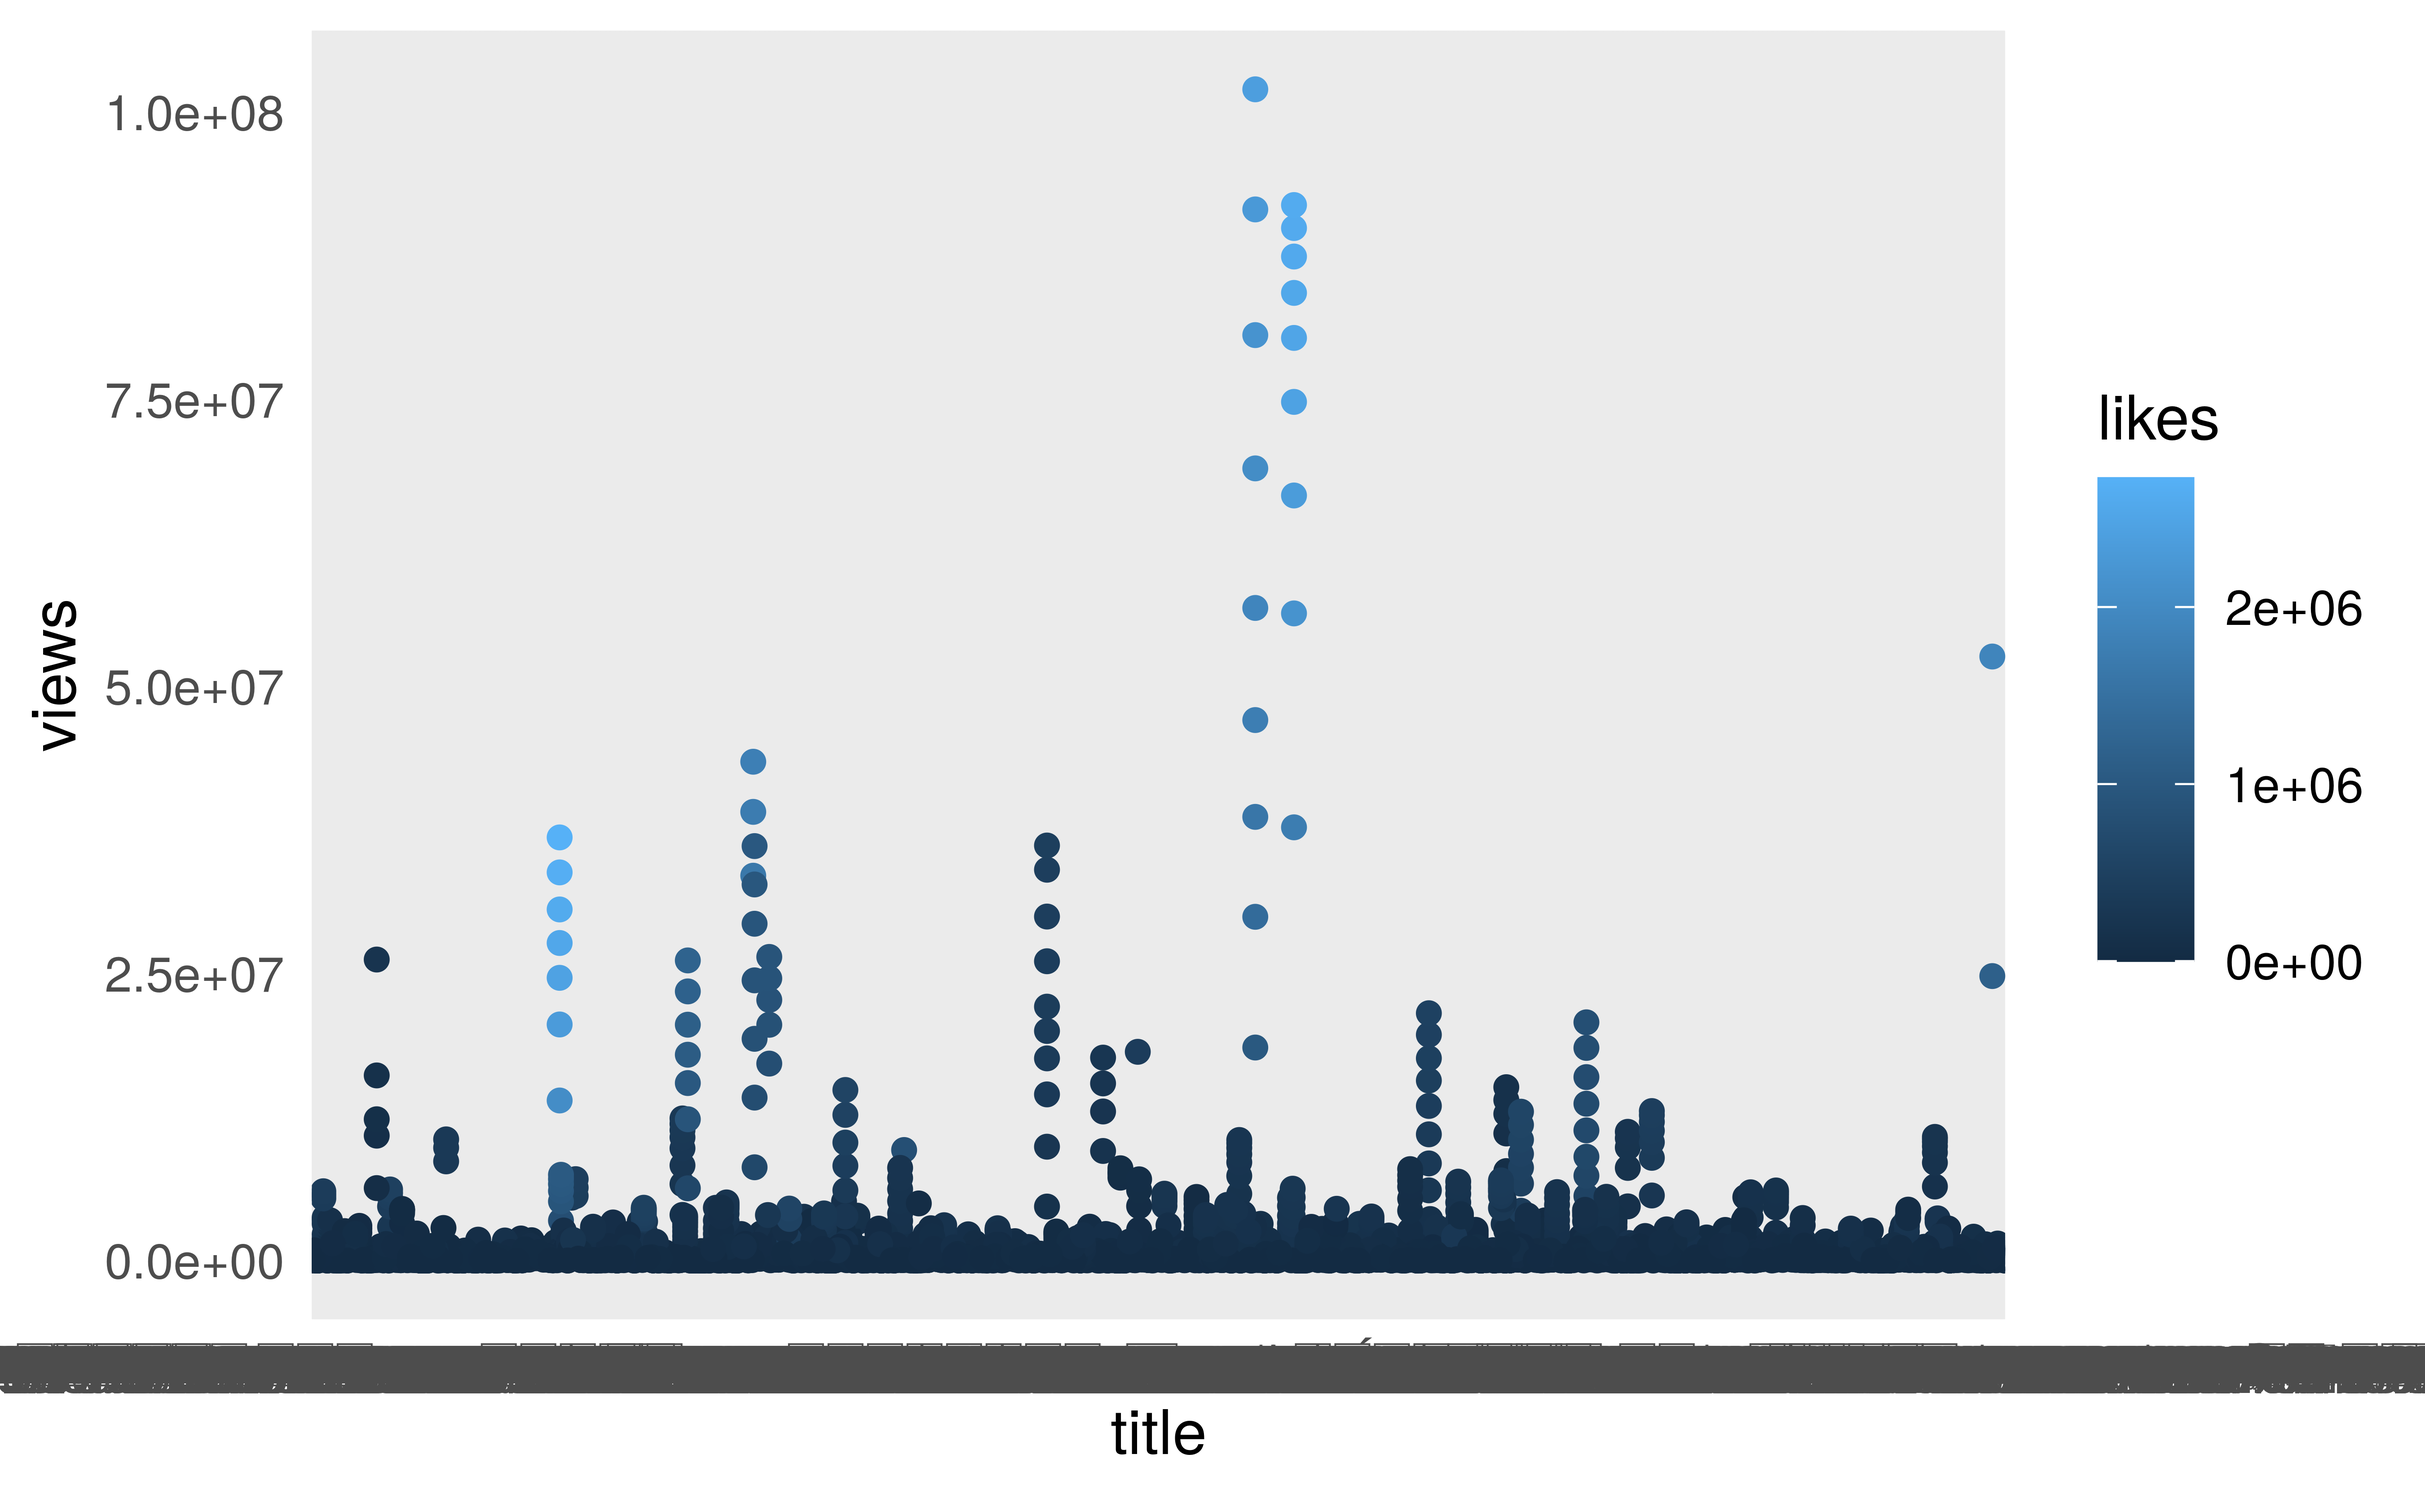
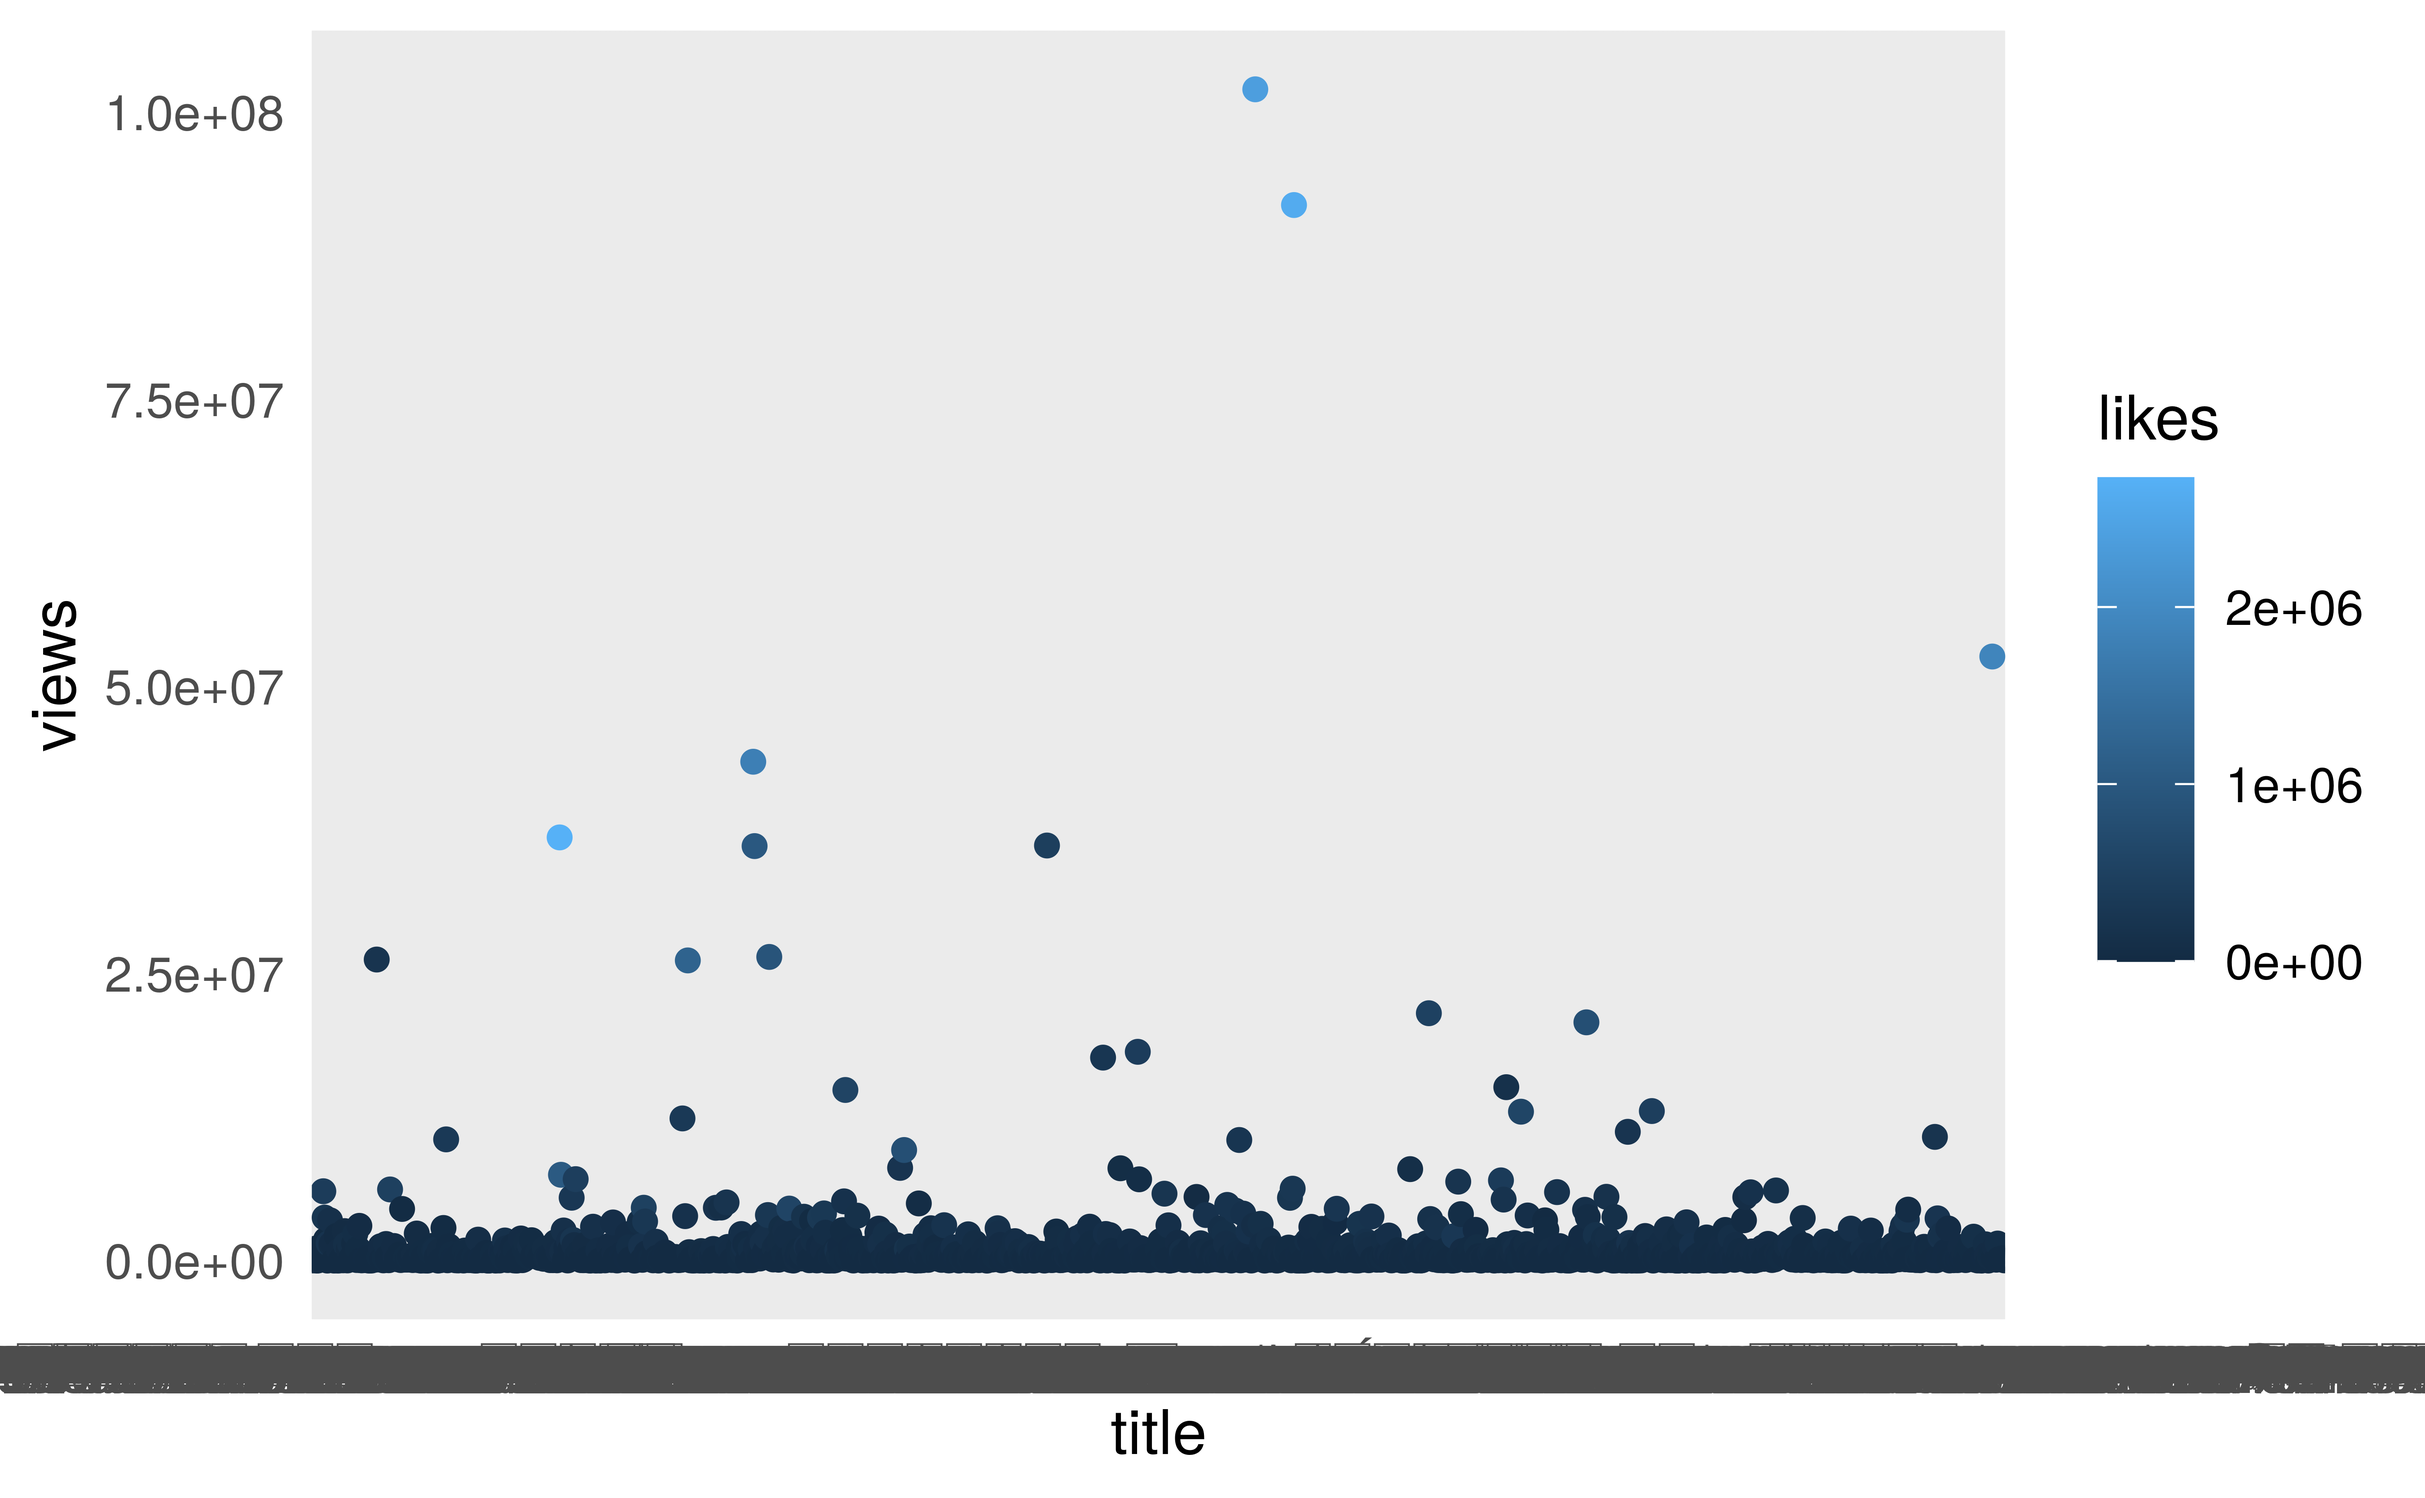
Pardon Me

diff --git a/presentation/presentation.html b/presentation/presentation.html
@@ -1,7 +1,7 @@
 <!DOCTYPE html>
 <html lang="" xml:lang="">
   <head>
-    <title>What is the most popular video on Youtube?.</title>
+    <title>What is the most popular video on Youtube?</title>
     <meta charset="utf-8" />
     <meta name="author" content="Infinite   Alicia, Lucas, Lucia" />
     <meta name="date" content="2020-11-28" />
@@ -12,7 +12,7 @@
     <textarea id="source">
 class: center, middle, inverse, title-slide
 
-# What is the most popular video on Youtube?.
+# What is the most popular video on Youtube?
 ## Infinite possibilites
 ### Infinite <br> Alicia, Lucas, Lucia
 ### University of Edinburgh
@@ -84,6 +84,24 @@ library(here)
 ```r
 library(dplyr)
 library(stringr)
+library(data.table)
+```
+
+```
+## 
+## Attaching package: 'data.table'
+```
+
+```
+## The following objects are masked from 'package:dplyr':
+## 
+##     between, first, last
+```
+
+```
+## The following object is masked from 'package:purrr':
+## 
+##     transpose
 ```
 
 
@@ -154,6 +172,8 @@ or text in two columns `\(^*\)`
 
 
 
+
+
 ---
 
 # Plots
@@ -170,16 +190,113 @@ or text in two columns `\(^*\)`
 
 
 
-```r
-ggplot(USvideos, mapping = aes(x = publish_time, y = trending_date)) +
-  geom_point()
 ```
-
+## # A tibble: 1,268 x 2
+## # Groups:   title, views [1,268]
+##     title                                                                  views
+##     &lt;chr&gt;                                                                  &lt;dbl&gt;
+##   1 Luis Fonsi, Demi Lovato - Échame La Culpa                             1.02e8
+##   2 Marvel Studios' Avengers: Infinity War Official Trailer               9.19e7
+##   3 YouTube Rewind: The Shape of  | #YouTubeRewind                        5.26e7
+##   4 Ed Sheeran - Perfect (Official Music Video)                           4.34e7
+##   5 BTS (방탄소년단) 'MIC Drop (Steve Aoki Remix)' Official MV            3.69e7
+##   6 Incredibles 2 Official Teaser Trailer                                 3.62e7
+##   7 Ed Sheeran - Perfect Duet (with Beyoncé) [Official Audio]             3.61e7
+##   8 Eminem - Walk On Water (Audio) ft. Beyoncé                            2.64e7
+##   9 42 HOLY GRAIL HACKS THAT WILL SAVE YOU A FORTUNE                      2.62e7
+##  10 Demi Lovato - Tell Me You Love Me                                     2.61e7
+##  11 P!nk - Beautiful Trauma (Official Video)                              2.15e7
+##  12 Selena Gomez, Marshmello - Wolves                                     2.08e7
+##  13 Jurassic World: Fallen Kingdom - Official Trailer [HD]                1.82e7
+##  14 Jennifer Lopez - Amor, Amor, Amor (Official Video) ft. Wisin          1.77e7
+##  15 RAMPAGE - OFFICIAL TRAILER 1 [HD]                                     1.51e7
+##  16 G-Eazy &amp; Halsey - Him &amp; I (Official Video)                            1.49e7
+##  17 Stranger Things Cast Answer the Web's Most Searched Questions | WI…   1.30e7
+##  18 Red Velvet 레드벨벳 '피카부 (Peek-A-Boo)' MV                          1.30e7
+##  19 Deadpool’s “Wet on Wet” Teaser                                        1.24e7
+##  20 Spill Your Guts or Fill Your Guts w/ Kim Kardashian                   1.12e7
+##  21 What's new, Atlas?                                                    1.08e7
+##  22 All Sports Golf Battle 2 | Dude Perfect                               1.06e7
+##  23 Liquid Sand Hot Tub- Fluidized air bed                                1.05e7
+##  24 Harry Styles - Kiwi                                                   9.63e6
+##  25 Hailee Steinfeld, Alesso - Let Me Go ft. Florida Georgia Line, watt   8.08e6
+##  26 John Lewis Christmas Ad  - #MozTheMonster                             8.04e6
+##  27 OK Go - Obsession - Official Video                                    7.97e6
+##  28 BTS (방탄소년단) 'MIC Drop (Steve Aoki Remix)' Official Teaser        7.48e6
+##  29 Camila Cabello, Daddy Yankee - Havana (Remix - Audio)                 7.10e6
+##  30 Jurassic World: Fallen Kingdom - Trailer Thursday (Run) (HD)          7.08e6
+##  31 R.I.P Arya                                                            6.99e6
+##  32 Pitbull, Fifth Harmony - Por Favor (Official Video)                   6.88e6
+##  33 Martin Garrix &amp; David Guetta - So Far Away (feat. Jamie Scott &amp; Ro…   6.26e6
+##  34 73 Questions With Liza Koshy | Vogue                                  6.20e6
+##  35 The Trump Presidency: Last Week Tonight with John Oliver (HBO)        6.11e6
+##  36 [ MAMA in Hong Kong] BTS_BTS Cypher 4 + MIC DROP(Steve Aoki Remix …   6.04e6
+##  37 Sam Smith - One Last Song (Official Video)                            5.97e6
+##  38 The Poop In My Pants | Rick and Morty | Adult Swim                    5.95e6
+##  39 Keeping Up With The Gonzalez’s (Pt. 3) | Lele Pons, Rudy Mancuso &amp;…   5.83e6
+##  40 Sia - Santa's Coming For Us                                           5.56e6
+##  41 Kylie Jenner Pregnancy Reveal On Keeping Up With The Kardashians      5.55e6
+##  42 The New SpotMini                                                      5.53e6
+##  43 Camila Cabello - Havana (Vertical Video) ft. Young Thug               5.48e6
+##  44 Marshmello - Blocks (Official Music Video)                            5.47e6
+##  45 Racist Superman | Rudy Mancuso, King Bach &amp; Lele Pons                 5.32e6
+##  46 G-Eazy - The Plan (Official Video)                                    5.16e6
+##  47 DON'T Buy The iPhone X                                                5.07e6
+##  48 Holiday — Sway — Apple                                                4.98e6
+##  49 Lil Uzi Vert - The Way Life Goes Remix (Feat. Nicki Minaj) [Offici…   4.85e6
+##  50 Dog Cries Every Time He's Touched — Until He Meets This Woman | Th…   4.62e6
+##  51 CONFRONTING MY DAD                                                    4.61e6
+##  52 DJ Snake, Lauv - A Different Way                                      4.60e6
+##  53 EXO 'Electric Kiss' MV -Short Ver.-                                   4.53e6
+##  54 Migos, Nicki Minaj, Cardi B - MotorSport                              4.51e6
+##  55 A Quiet Place (2018) - Official Teaser Trailer - Paramount Pictures   4.50e6
+##  56 Welcome to Hell - SNL                                                 4.44e6
+##  57 Selena Gomez Tearfully Accepts Woman of the Year Award at Billboar…   4.42e6
+##  58 Lindsey Stirling - Carol of the Bells                                 4.36e6
+##  59 Flinch w/ BTS                                                         4.11e6
+##  60 Little Mix bring the Power &amp; CNCO to The X Factor Final! | Final |…   4.09e6
+##  61 Pitch Perfect 3 - Riff-Off Clip [HD]                                  4.05e6
+##  62 Latino Hunger Games | Lele Pons                                       3.97e6
+##  63 Eminem - Untouchable (Audio)                                          3.97e6
+##  64 Remy Ma - Wake Me Up ft. Lil' Kim                                     3.93e6
+##  65 Getting My Driver's License | Lele Pons                               3.91e6
+##  66 Demi Lovato - Sorry Not Sorry (Live From The  American Music Award…   3.87e6
+##  67 My Pretty Little Liars Audition Tape! | Shay Mitchell                 3.84e6
+##  68 Fall Out Boy - HOLD ME TIGHT OR DON’T                                 3.82e6
+##  69 Selling My iPhone X To a Machine at Walmart                           3.80e6
+##  70 Slow Mo Katana Sword - 4K - The Slow Mo Guys                          3.79e6
+##  71 [ MAMA in Hong Kong] BTS_INTRO Perf. + Not Today                      3.75e6
+##  72 FIRST TIME IM DOING THIS! TALKS WITH LIZA.                            3.74e6
+##  73 Thomas Train Stunts                                                   3.71e6
+##  74 When Someone Has A Crush on You | Lilly Singh                         3.68e6
+##  75 P!nk Carpool Karaoke                                                  3.62e6
+##  76 Weird Workout Videos - JonTron                                        3.56e6
+##  77 [OFFICIAL VIDEO] Deck The Halls - Pentatonix                          3.51e6
+##  78 The New Snapchat in 60 Seconds                                        3.51e6
+##  79 Roy Halladay Plane Crash Video, Witnesses Say He Was Showboating |…   3.51e6
+##  80 FIA GT World Cup . Qualification Race Macau Grand Prix. Huge Pile …   3.46e6
+##  81 CONFRONTING MY MOM                                                    3.41e6
+##  82 Come Back, Barack - SNL                                               3.38e6
+##  83 Midnight Sun | Official Trailer | In Theaters March 23                3.34e6
+##  84 Testing Nail Products from Wish Nails Remove Toes Hollow Nail Poli…   3.34e6
+##  85 CHICKEN GIRLS | Annie &amp; Hayden in “Broken” | Ep. 8                    3.32e6
+##  86 Musical Fiction | Rudy Mancuso                                        3.20e6
+##  87 Machine Gun Kelly, X Ambassadors &amp; Bebe Rexha - Home (from Bright:…   3.20e6
+##  88 How I Trained My Cats                                                 3.08e6
+##  89 Kelly Clarkson Carpool Karaoke                                        3.07e6
+##  90 Love, Simon | Official Trailer [HD] | 20th Century FOX                3.06e6
+##  91 Wearing Online Dollar Store Makeup For A Week                         3.03e6
+##  92 2 wingsuit flyers BASE jump into a plane in mid-air. | A Door In T…   3.03e6
+##  93 Jason Derulo - Tip Toe feat. French Montana (Official Lyric Video)    2.95e6
+##  94 Casually Explained: Levels of Wealth                                  2.95e6
+##  95 Matt Lauer Sexual Harassment Allegations; Trump's Unhinged Tweets:…   2.94e6
+##  96 Paramore: Fake Happy [OFFICIAL VIDEO]                                 2.90e6
+##  97 Everything Wrong With Baby Driver In 14 Minutes Or Less               2.84e6
+##  98 Alita: Battle Angel | Official Trailer [HD] | 20th Century FOX        2.84e6
+##  99 Honest Trailers - The Emoji Movie                                     2.82e6
+## 100 I Dare You: GOING BALD!?                                              2.82e6
+## # … with 1,168 more rows
 ```
-## Warning: Removed 2 rows containing missing values (geom_point).
-```
-
-&lt;img src="presentation_files/figure-html/old dates-1.png" width="80%" /&gt;
 
 .pull-left[
 - Some text
